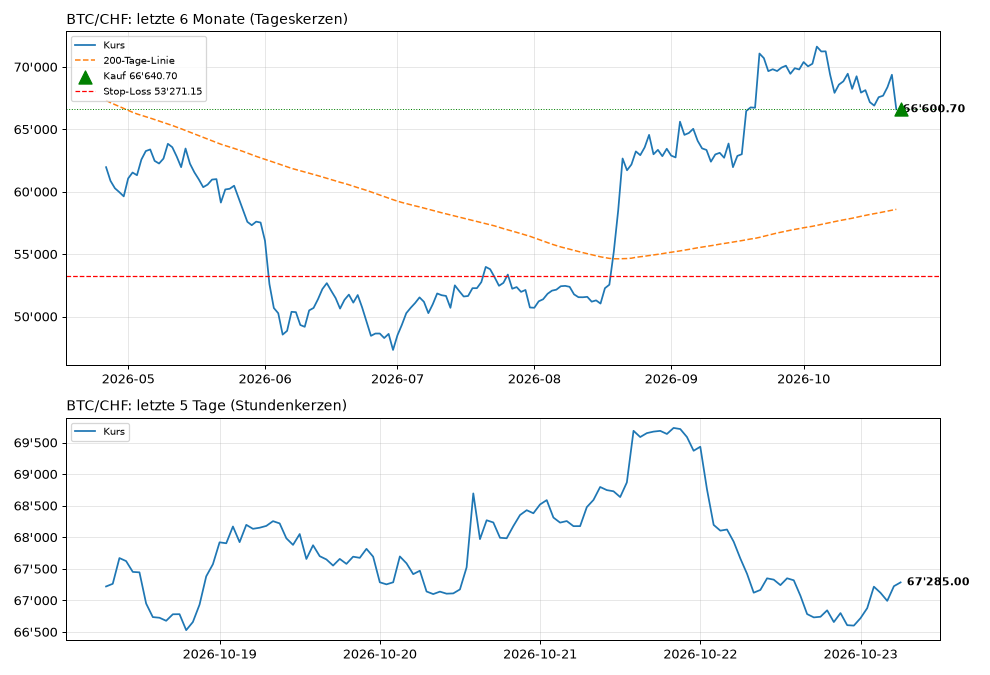
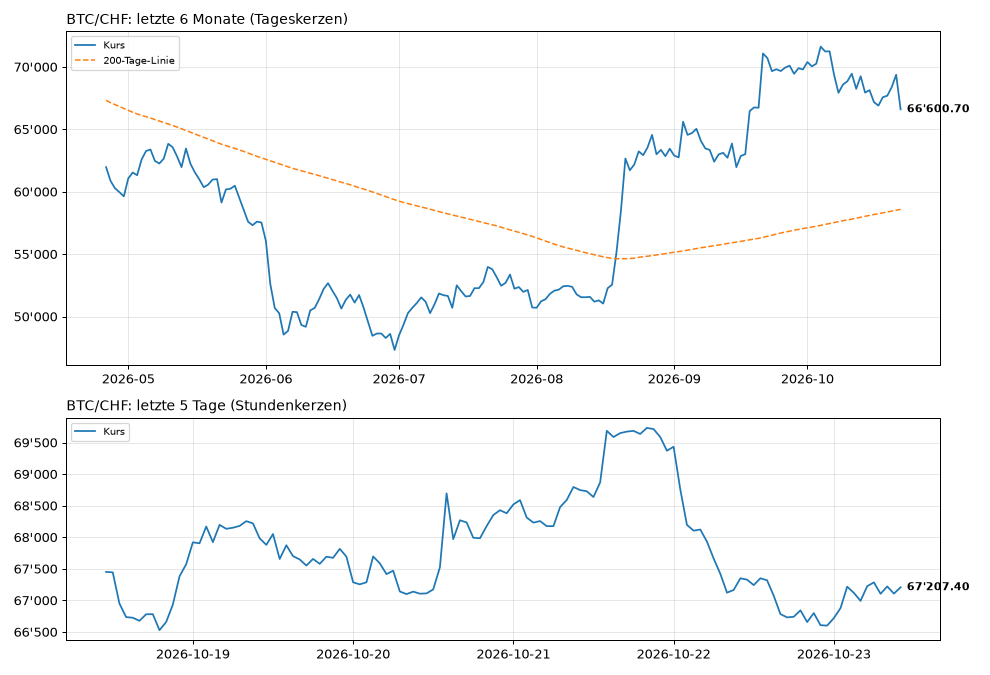
Bot-Lauf 2026-10-23

diff --git a/STATUS.md b/STATUS.md
@@ -1,17 +1,17 @@
 # 📈 Trading-Bot: Übersicht (Demo mit Spielgeld)
 
-Stand: **23.10.2026 09:07** Schweizer Zeit · wird jede Stunde automatisch aktualisiert
+Stand: **23.10.2026 13:55** Schweizer Zeit · wird jede Stunde automatisch aktualisiert
 
 ## Auf einen Blick
 
 | | **Langfrist-Bot (200-Tage-Regel, Hauptbot)** | **Daytrading-Bot (1-Stunden-Kerzen, Vergleich)** |
 |---|---|---|
 | Startkapital | 1'000.00 CHF | 1'000.00 CHF |
-| **Kapital jetzt** | **1'003.87 CHF** | **1'000.00 CHF** |
-| Gewinn / Verlust | 🟢 +3.87 CHF (+0.39 %) | ⚪ +0.00 CHF (+0.00 %) |
-| Im Einsatz (investiert) | 586.37 CHF (58 %) | 0.00 CHF (0 %) |
-| Cash (nicht investiert) | 417.51 CHF | 1'000.00 CHF |
-| Offene Positionen | 2 | 0 |
+| **Kapital jetzt** | **1'000.00 CHF** | **1'000.00 CHF** |
+| Gewinn / Verlust | ⚪ +0.00 CHF (+0.00 %) | ⚪ +0.00 CHF (+0.00 %) |
+| Im Einsatz (investiert) | 0.00 CHF (0 %) | 0.00 CHF (0 %) |
+| Cash (nicht investiert) | 1'000.00 CHF | 1'000.00 CHF |
+| Offene Positionen | 0 | 0 |
 | Abgeschlossene Trades | 0 | 0 |
 | Strategie | regime, 1d-Kerzen | adaptive, 1h-Kerzen |
 
@@ -19,17 +19,18 @@ Stand: **23.10.2026 09:07** Schweizer Zeit · wird jede Stunde automatisch aktua
 
 | Coin | Kurs jetzt | 24 Std. | Live-Chart |
 |---|---|---|---|
-| **BTC** | 67'346.40 CHF | 🟢 +1.06 % | [öffnen](https://www.tradingview.com/chart/?symbol=KRAKEN:BTCCHF) |
-| **ETH** | 1'978.75 CHF | 🟢 +1.36 % | [öffnen](https://www.tradingview.com/chart/?symbol=KRAKEN:ETHCHF) |
+| **BTC** | 67'189.60 CHF | 🟢 +0.83 % | [öffnen](https://www.tradingview.com/chart/?symbol=KRAKEN:BTCCHF) |
+| **ETH** | 1'979.55 CHF | 🟢 +1.40 % | [öffnen](https://www.tradingview.com/chart/?symbol=KRAKEN:ETHCHF) |
+| **BNB** | 614.93 CHF | 🟢 +2.12 % | [öffnen](https://www.tradingview.com/chart/?symbol=KRAKEN:BNBUSD) |
+| **XRP** | 1.09 CHF | 🟢 +1.02 % | [öffnen](https://www.tradingview.com/chart/?symbol=KRAKEN:XRPUSD) |
+| **SOL** | 86.17 CHF | 🟢 +0.95 % | [öffnen](https://www.tradingview.com/chart/?symbol=KRAKEN:SOLUSD) |
+| **TRX** | 0.27 CHF | 🟢 +0.51 % | [öffnen](https://www.tradingview.com/chart/?symbol=KRAKEN:TRXUSD) |
+| **ZEC** | 1'015.10 CHF | 🟢 +1.00 % | [öffnen](https://www.tradingview.com/chart/?symbol=KRAKEN:ZECUSD) |
+| **HYPE** | 64.37 CHF | 🟢 +0.94 % | [öffnen](https://www.tradingview.com/chart/?symbol=KRAKEN:HYPEUSD) |
 
 ## Langfrist-Bot (200-Tage-Regel, Hauptbot)
 
-**Offene Positionen**
-
-| Coin | Gekauft am | Einstiegskurs | Kurs jetzt | Menge | Einsatz | Wert jetzt | Gewinn / Verlust | Stop-Loss |
-|---|---|---|---|---|---|---|---|---|
-| **BTC** long | 23.10.2026 01:18 | 66'640.70 | 67'346.40 | 0.007507 | 500.25 CHF | 505.55 CHF | 🟢 +5.30 CHF (+1.06 %) | 53'271.15 (-21 %) |
-| **ETH** long | 23.10.2026 08:33 | 1'976.67 | 1'978.75 | 0.040844 | 80.73 CHF | 80.82 CHF | 🟢 +0.09 CHF (+0.11 %) | 1'361.59 (-31 %) |
+Keine offene Position, alles in Cash.
 
 **Signale jetzt**
 
@@ -37,8 +38,14 @@ Stand: **23.10.2026 09:07** Schweizer Zeit · wird jede Stunde automatisch aktua
 |---|---|
 | BTC | 🟢 investiert sein |
 | ETH | 🟢 investiert sein |
+| BNB | 🟢 investiert sein |
+| XRP | 🟢 investiert sein |
+| SOL | 🟢 investiert sein |
+| TRX | ⚪ neutral |
+| ZEC | 🟢 investiert sein |
+| HYPE | 🟢 investiert sein |
 
-**Letzte Entscheidung:** BTC/CHF: Position offen, Signal bestätigt · ETH/CHF: Position offen, Signal bestätigt
+**Letzte Entscheidung:** BTC/CHF: Einstieg pausiert wegen Nachrichtenlage (bestätigte Themen: hack,klage, Wert -1.0) · ETH/CHF: Einstieg pausiert wegen Nachrichtenlage (bestätigte Themen: hack,klage, Wert -1.0) · BNB/CHF: Einstieg pausiert wegen Nachrichtenlage (bestätigte Themen: hack,klage, Wert -1.0) · XRP/CHF: Einstieg pausiert wegen Nachrichtenlage (bestätigte Themen: hack,klage, Wert -1.0) · SOL/CHF: Einstieg pausiert wegen Nachrichtenlage (bestätigte Themen: hack,klage, Wert -1.0) · TRX/CHF: kein Signal · ZEC/CHF: Einstieg pausiert wegen Nachrichtenlage (bestätigte Themen: hack,klage, Wert -1.0) · HYPE/CHF: Einstieg pausiert wegen Nachrichtenlage (bestätigte Themen: hack,klage, Wert -1.0)
 
 ## Daytrading-Bot (1-Stunden-Kerzen, Vergleich)
 
@@ -50,8 +57,14 @@ Keine offene Position, alles in Cash.
 |---|---|
 | BTC | 🔴 raus / Cash |
 | ETH | 🔴 raus / Cash |
+| BNB | 🟢 investiert sein |
+| XRP | 🔴 raus / Cash |
+| SOL | 🔴 raus / Cash |
+| TRX | 🔴 raus / Cash |
+| ZEC | 🔴 raus / Cash |
+| HYPE | 🔴 raus / Cash |
 
-**Letzte Entscheidung:** BTC/CHF: Signal 'raus', bleibe in Cash · ETH/CHF: Signal 'raus', bleibe in Cash
+**Letzte Entscheidung:** BTC/CHF: Signal 'raus', bleibe in Cash · ETH/CHF: Signal 'raus', bleibe in Cash · BNB/CHF: Einstieg pausiert wegen Nachrichtenlage (bestätigte Themen: hack,klage, Wert -1.0) · XRP/CHF: Signal 'raus', bleibe in Cash · SOL/CHF: Signal 'raus', bleibe in Cash · TRX/CHF: Signal 'raus', bleibe in Cash · ZEC/CHF: Signal 'raus', bleibe in Cash · HYPE/CHF: Signal 'raus', bleibe in Cash
 
 ## Charts
 
@@ -65,13 +78,39 @@ Keine offene Position, alles in Cash.
 
 ![ETH/CHF](charts/ETH-CHF.png)
 
+### BNB/CHF · [Live-Chart](https://www.tradingview.com/chart/?symbol=KRAKEN:BNBUSD)
+
+![BNB/CHF](charts/BNB-CHF.png)
+
+### XRP/CHF · [Live-Chart](https://www.tradingview.com/chart/?symbol=KRAKEN:XRPUSD)
+
+![XRP/CHF](charts/XRP-CHF.png)
+
+### SOL/CHF · [Live-Chart](https://www.tradingview.com/chart/?symbol=KRAKEN:SOLUSD)
+
+![SOL/CHF](charts/SOL-CHF.png)
+
+### TRX/CHF · [Live-Chart](https://www.tradingview.com/chart/?symbol=KRAKEN:TRXUSD)
+
+![TRX/CHF](charts/TRX-CHF.png)
+
+### ZEC/CHF · [Live-Chart](https://www.tradingview.com/chart/?symbol=KRAKEN:ZECUSD)
+
+![ZEC/CHF](charts/ZEC-CHF.png)
+
+### HYPE/CHF · [Live-Chart](https://www.tradingview.com/chart/?symbol=KRAKEN:HYPEUSD)
+
+![HYPE/CHF](charts/HYPE-CHF.png)
+
 ## Nachrichtenlage
 
 - **Stimmung (Fear & Greed):** 50 von 100, neutral
-- **Bewertung News:** -0.30 (−1 sehr negativ bis +1 sehr positiv)
-- **Bestätigte Themen:** klage (gemeldet von bitcoinmagazine, cointelegraph – nur Hinweis, blockiert nicht)
+- **Bewertung News:** -1.00 (−1 sehr negativ bis +1 sehr positiv)
+- **Bestätigte Themen:** hack (gemeldet von bitcoinmagazine, coindesk – blockiert Käufe); klage (gemeldet von bitcoinmagazine, cointelegraph – nur Hinweis, blockiert nicht)
 
 **Schlagzeilen dazu:**
 
+- 2026-10-23 08:02 UTC · **coindesk** · [India's largest exchange denies hack after sleuths pointed to $16 million in suspicious outflows](https://www.coindesk.com/markets/2026/10/23/india-s-largest-exchange-denies-hack-after-blockchain-sleuths-pointed-to-usd16-million-in-suspicious-outflows) _(Thema: hack)_
 - 2026-10-22 21:39 UTC · **cointelegraph** · [Circle shareholder sues Trump, World Liberty and Steve Witkoff over crypto deals](https://cointelegraph.com/news/circle-shareholder-lawsuit-donald-trump-world-liberty-financial-steve-witkoff-crypto-corruption?utm_source=rss_feed&utm_medium=rss&utm_campaign=rss_partner_inbound) _(Thema: klage)_
 - 2026-10-22 21:23 UTC · **bitcoinmagazine** · [Circle Shareholder Sues Trump, Alleging Unconstitutional Profits From $2B UAE Crypto Deals](https://bitcoinmagazine.com/news/trump-sued-for-alleged-crypto-corruption) _(Thema: klage)_
+- 2026-10-22 13:33 UTC · **bitcoinmagazine** · [SpaceX-Tesla Merger: Passive Flows ‘Hack’, Could Bring More BTC Exposure to S&P 500](https://bitcoinmagazine.com/videos/spacex-tesla-merger-passive-flows-hack-could-bring-more-btc-exposure-to-sp-500) _(Thema: hack)_
